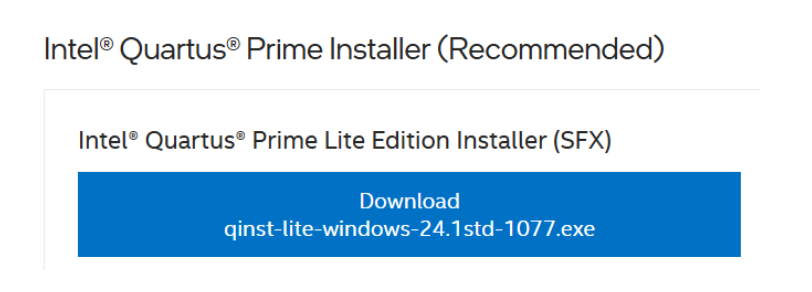
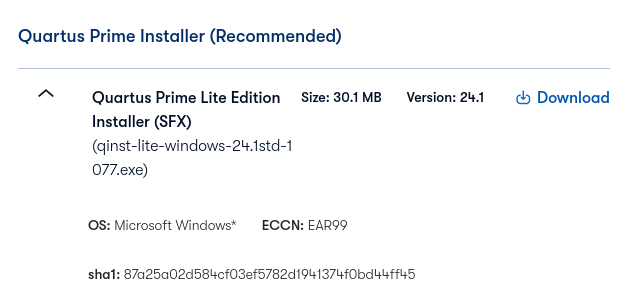
Quartus setup changes

diff --git a/quartus_setup/README.md b/quartus_setup/README.md
@@ -1,21 +1,24 @@
 ---
 title: 'Setting up Quartus'
-author: 'Punit Shah, Karnan Thamilchelvan, Benjamin Zaionz, Avi Bhadore, Michelle Chen, Silas Ifeanyi, Michael McPhee, Nancy Nelson, Chris Rennick'
+author: 'Punit Shah, Karnan Thamilchelvan, Benjamin Zaionz, Avi Bhadore, Michelle Chen, Silas Ifeanyi, Michael McPhee, Nancy Nelson, Chris Rennick, Caitlyn Kwan, Jonathan Lyashko, Leo Qi'
 ---
+
 
 # Setting up Quartus
 
-If you're here, you want to get the necessary tools on your computer to interact with the FPGA board for the [introductory](../fpga_intro/README.md) and [intermediate](../fpga_intermediate/README.md) workshops.
+If you're here, you want to get the necessary tools on your computer to interact with the FPGA board for the [introductory](../fpga_intro/README.md) and [intermediate](../fpga_intermediate/README.md) FPGA workshops.
+
+We recommend using Microsoft Windows to run Quartus. Please install Quartus on a laptop with Windows installed on it so that we may quickly help you troubleshoot steps of the workshop. **macOS is not officially supported by Quartus**.
 
 
 ## Installing Quartus Software for Windows
 
 1. Go to [the Intel FPGA Download Page](https://www.altera.com/downloads/fpga-development-tools/quartus-prime-lite-edition-design-software-version-24-1-windows)
 
-2. Select version 24.1(Latest) from the drop-down menu. 
+2. Select version `24.1` from the drop-down menu. 
 3. Verify that you have selected the following parameters: **FPGA Development < Quartus Prime Lite < 24.1 (Latest) < Windows**
 
-![Quartus installer dropdown](assets/ip_directory.png)
+![Quartus installer dropdown](assets/quartus_download_parameters.png)
 
 4. Press the download button and accept the legal disclaimer when prompted.  
 
@@ -26,19 +29,27 @@ If you're here, you want to get the necessary tools on your computer to interact
 6. Check off the following components. 
 ![Quartus components checkboxes](assets/quartus_components.png)
 
-7. Agree to the Intel License Agreement and click **Download and Install**. This installation will take a while to complete. Please be patient. 
+7. **Make sure to check the option "Launch USB Blaster II driver installation"** to easily install the programming tool we will use to "flash" the board.
+
+![Check the USB Blaster II checkbox](assets/usb_blaster_install.png)
+
+9. Agree to the Intel License Agreement and click **Download and Install**. This installation will take a while to complete. Please be patient.
+
 ![Quartus installer agreement](assets/quartus_install_agreement.png)
 
 ![Quartus download progress](assets/quartus_download_progress.png)
 
-8. Once the download and installation are complete, close the window and open up Quartus. You should see a screen that looks like this:
+9. Once the download and installation of Quartus is complete, you should see a window named "Install USB Blaster" by Altera.
+   Follow all steps in the new prompt window.
+
+10. Once the download and installation are complete, close the window and open up Quartus. You should see a screen that looks like this:
 
 ![Quartus fully installed](assets/quartus_fully_installed.png)
 
 
-## Installing Drivers for Quartus
+## Installing Drivers Manually for Quartus
 
-For Quartus to detect your FPGA, you will need to install the USB-Blaster drivers. 
+*If you were not given the option to install the USB Blaster II driver automatically, please follow the instructions below*.
 
 1. Your FPGA will need to be plugged into power, as well as your computer to do this. **MAKE SURE THAT THE USB-B END OF YOUR CABLE IS PLUGGED INTO THE PORT ON YOUR FPGA LABELED AS “USB-Blaster” (The one that is closest to the edge of the board).**
 2. Navigate to Device Manager. 
@@ -54,21 +65,22 @@ For Quartus to detect your FPGA, you will need to install the USB-Blaster driver
 
 ![Search for drivers in device manager](assets/search_drivers.png)
 
-
 6. Click on “Let me pick from a list of available drivers on my computer”. 
 
 7. Click “Browse” and navigate to **quartus\drivers\usb-blaster** or **intel_fgpa\quartus\drivers\usb-blaster** or something similar. The file you are looking for is usb-blaster. Click OK. 
 
-
 ![Search for usb-blaster](assets/usb_blaster.png)
+
 
 ## Driver troubleshooting
 
 If you’re unable to update the drivers using the previously mentioned approach you can try the following approaches to see if that works. 
 
+
 ### Alternative 1
 
 Instead of just selecting the folder, you can select the file directly. Similar to the previous step, we need to get to the usb-blaster folder and then follow the path **usb-blaster >> x64 >> .inf file** (there should only be one file and that’s the one which should be selected) and just select that file. 
+
 
 ### Alternative 2
 